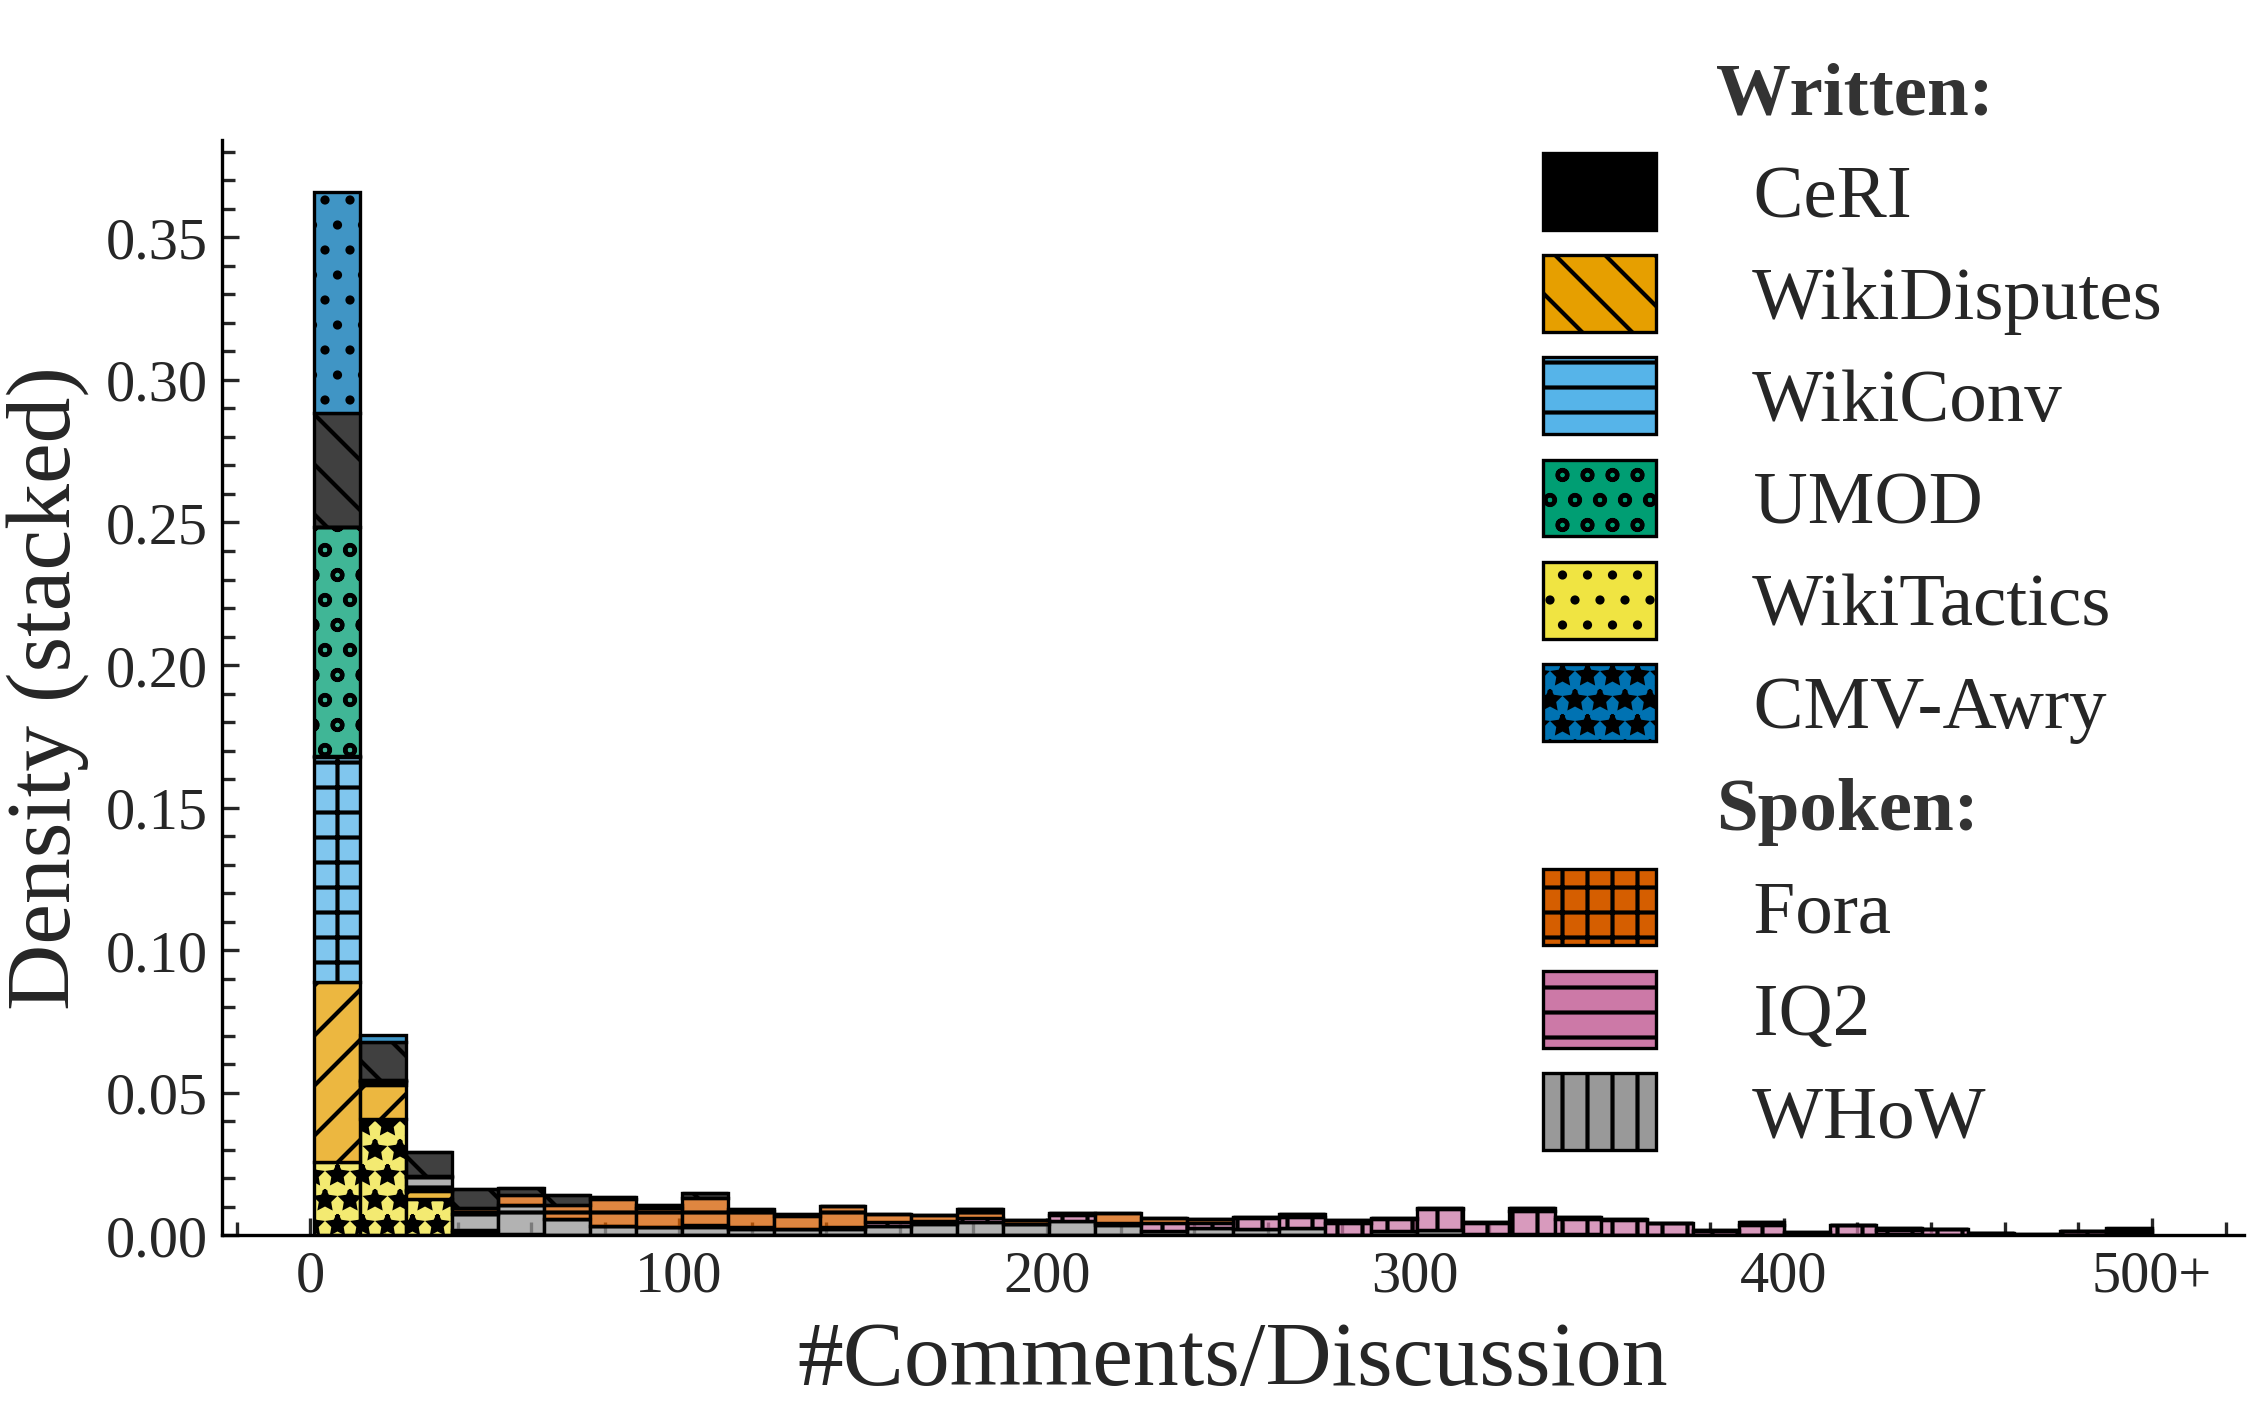
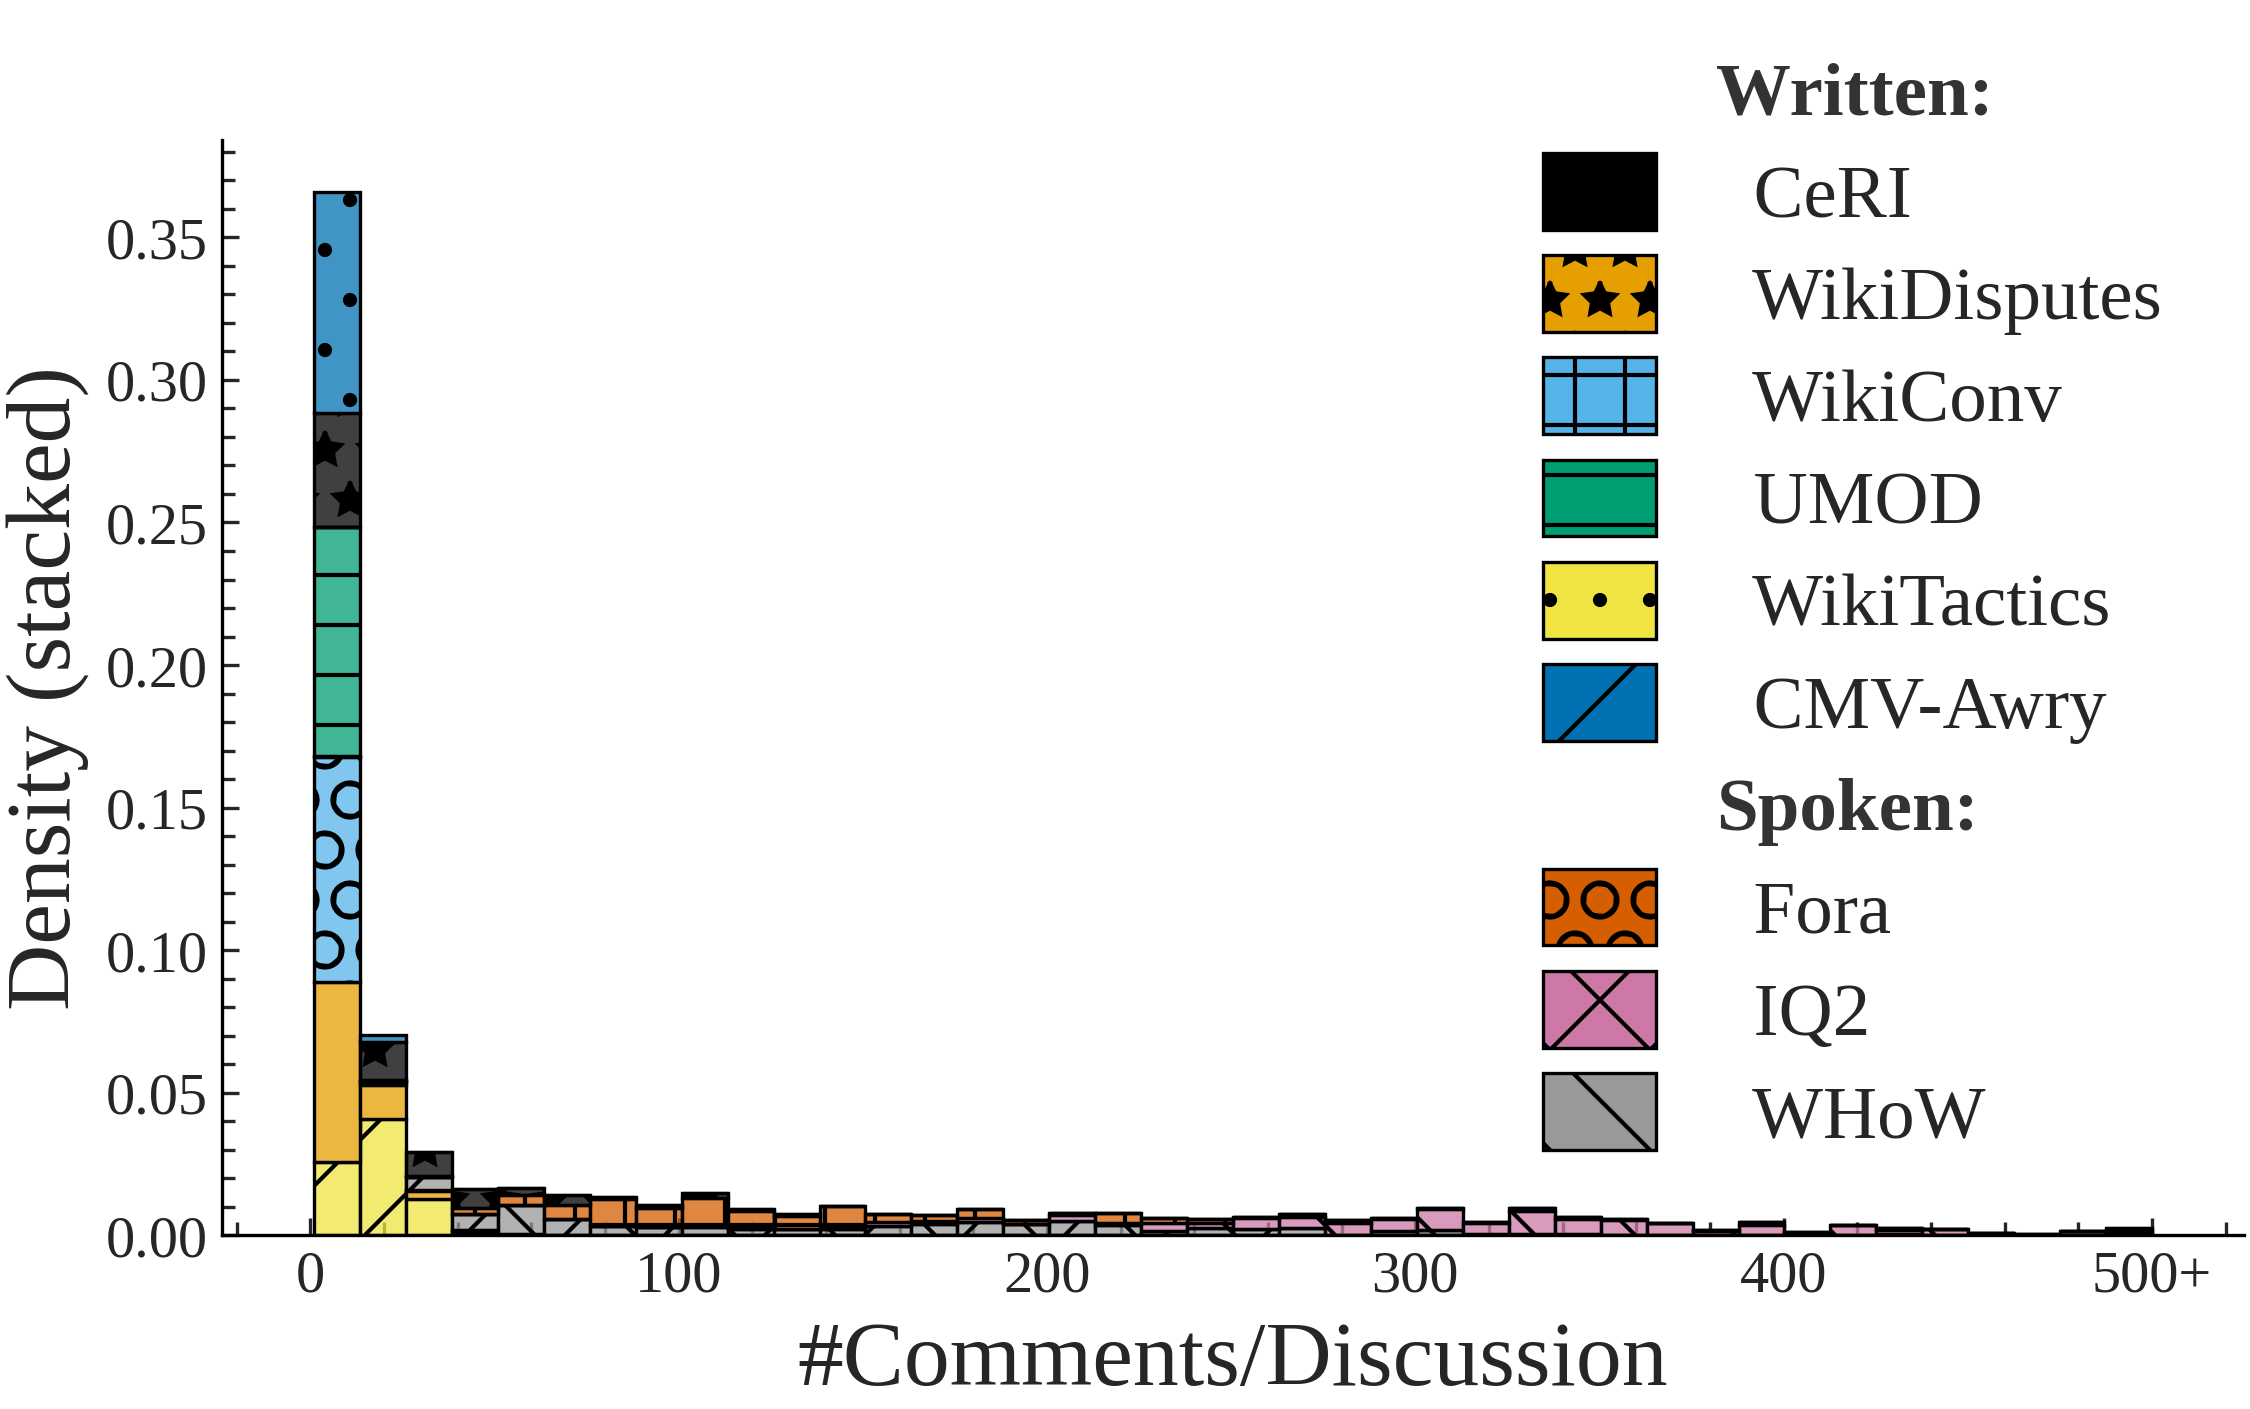
fix hashes

diff --git a/src/util/graphs.py b/src/util/graphs.py
@@ -4,8 +4,54 @@ import matplotlib.pyplot as plt
 import seaborn as sns
 
 
-MARKERS = ["o", "s", "D", "^", "v", "P", "X", "3", "_", "H", "8"]
-HATCHES = ["//", "\\\\", "--", "oo", "..", "**", "++", "--", "||", "xx"]
+MARKERS = [
+    "●",
+    "○",
+    "▲",
+    "△",
+    "▼",
+    "▽",
+    "◉",
+    "◎",
+    "■",
+    "□",
+    "◈",
+    "◦",
+    "♣",
+    "♢",
+    "⬤",
+    "⬌",
+]
+
+HATCHES = [
+    "",
+    "*",
+    "+",
+    "-",
+    ".",
+    "/",
+    "O",
+    "X",
+    "\\",
+    "++",
+    "-+",
+    "/+",
+    "o",
+    "x",
+    "|",
+    "//",
+    "\\\\",
+    r"\/\\/ \\",
+    r"\/\/",
+    "/-",
+    "\\O",
+    "/.",
+    "\\/.",
+    "o/",
+    "o-.",
+    "o+-",
+    "O/",
+]
 
 COLORBLIND_PALETTE = [
     "#000000",  # black